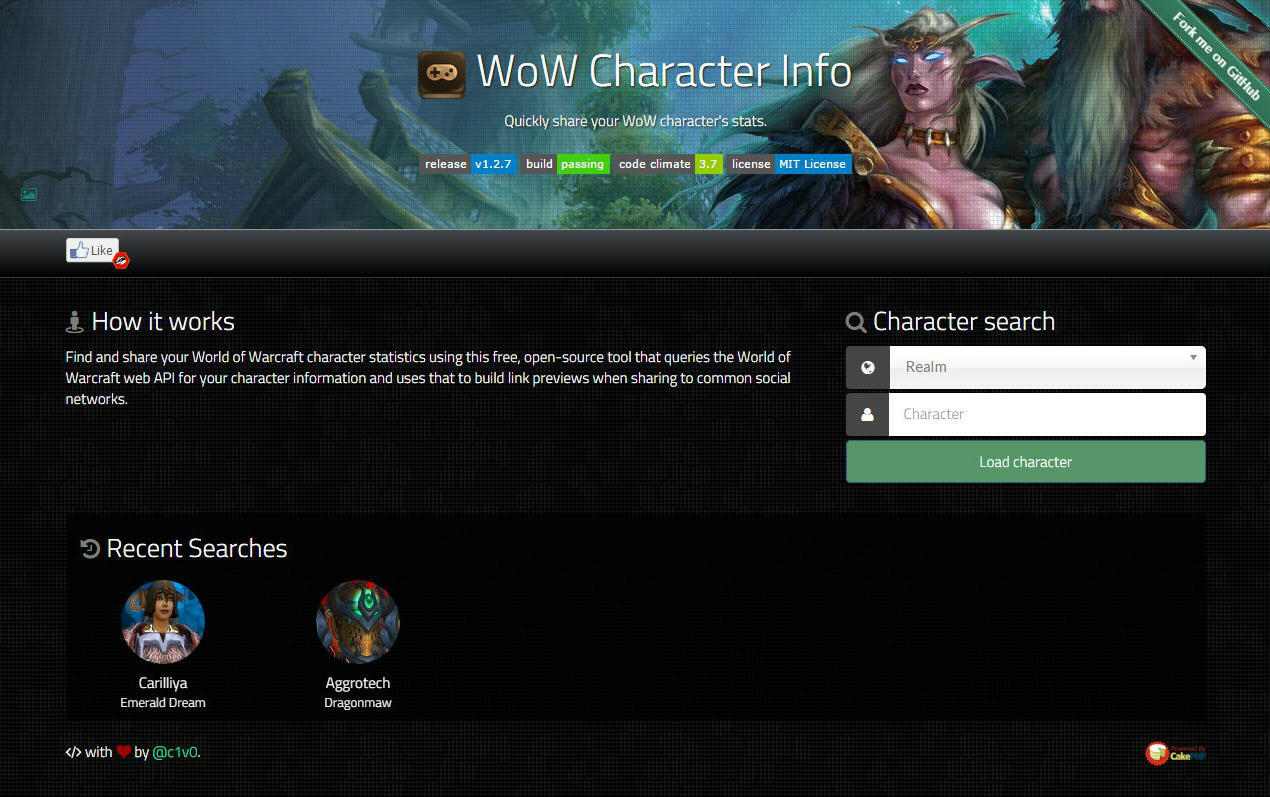
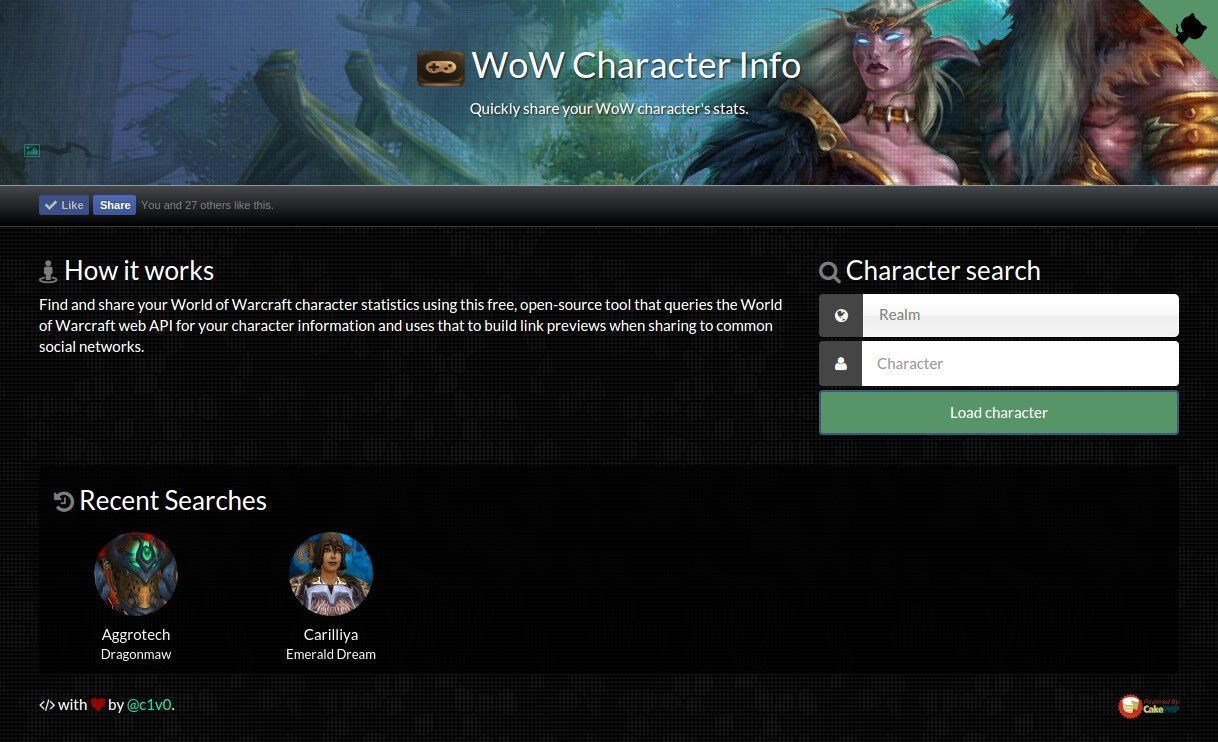
(doco) Updates the project readme and screenshots.

diff --git a/README.md b/README.md
@@ -1,11 +1,10 @@
 # WOWCHAR.info
 
-[![GitHub release](https://img.shields.io/github/release/chrisvogt/wowchar-info.svg?style=flat-square)]()
-[![Travis](https://img.shields.io/travis/chrisvogt/wowchar-info.svg?style=flat-square)]()
-[![Code Climate](https://img.shields.io/codeclimate/github/chrisvogt/wowchar-info.svg?style=flat-square)]()
-[![GitHub license](https://img.shields.io/github/license/chrisvogt/wowchar-info.svg?style=flat-square)]()
+[![Travis](https://img.shields.io/travis/chrisvogt/wowchar-info.svg?style=flat-square)](https://travis-ci.org/chrisvogt/wowchar-info)
+[![Code Climate](https://img.shields.io/codeclimate/github/chrisvogt/wowchar-info.svg?style=flat-square)](https://codeclimate.com/github/chrisvogt/wowchar-info)
+[![MIT License](https://img.shields.io/dub/l/vibe-d.svg?style=flat-square)](https://github.com/chrisvogt/wowchar-info/blob/master/LICENSE)
 
-<img src="webroot/img/preview.jpg" alt="Facebook share character preview" width="404" align="right"> WOWCHAR.info is a demo CakePHP application that loads character data from the World of Warcraft web API. Including a character URL in a Facebook or Twitter comment generates a fancy in-app link preview using character art and stats.
+<img src="webroot/img/preview.jpg" alt="Facebook share character preview" width="404" align="right">Uses the [Battle.net API](https://dev.battle.net/) to lookup and render WoW character stats.
 
 View live:
 
@@ -14,7 +13,7 @@ View live:
 
 ### Requirements
 
-Requires `PHP 5.4+`, `CakePHP 2.x`. Uses `Jekyll` and `Bower` for package management. Also uses CakePHP's [HttpSocket()](http://book.cakephp.org/2.0/en/core-utility-libraries/httpsocket.html) class for the request to the Battle.NET web API.
+Requires `PHP 5.4+`, `composer`, and `npm`.
 
 ### Screenshot
 
@@ -22,14 +21,16 @@ Requires `PHP 5.4+`, `CakePHP 2.x`. Uses `Jekyll` and `Bower` for package manage
 
 ### License
 
-MIT
+[MIT License](LICENSE)
 
 ### Built with
 
 <p align="left">
 	<img src="webroot/img/php-med-trans.png" alt="PHP" height="48">
 	<img src="webroot/img/cake-logo-smaller.png" alt="CakePHP" height="48">
-	<img src="http://bower.io/img/bower-logo.svg" alt="Bower.js" height="48">
+    <img src="http://upload.wikimedia.org/wikipedia/en/9/9e/JQuery_logo.svg" alt="jQuery" height="48">
+    <img src="http://gruntjs.com/img/grunt-logo-no-wordmark.svg" alt="grunt.js" height="48">
+    <img src="http://bower.io/img/bower-logo.svg" alt="Bower.js" height="48">
 	<img src="https://upload.wikimedia.org/wikipedia/commons/1/1b/CSS3_and_HTML5_badges.svg" alt="HTML5 &amp; CSS3" height="48">
 	<img src="https://upload.wikimedia.org/wikipedia/commons/e/ea/Boostrap_logo.svg" alt="Twitter Bootstrap" height="48">
 </p>
